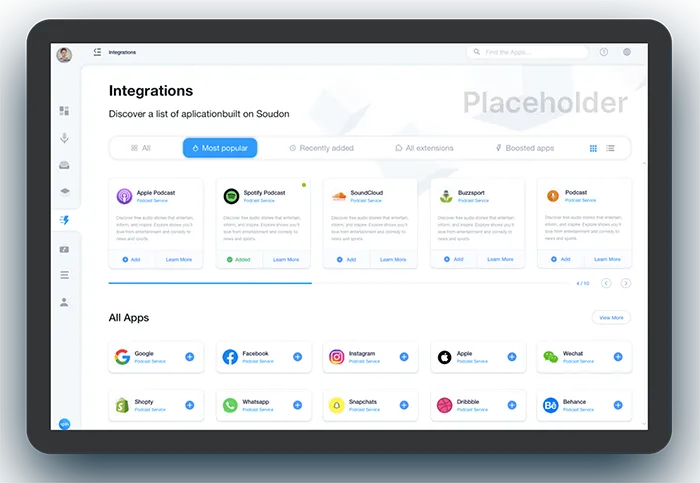
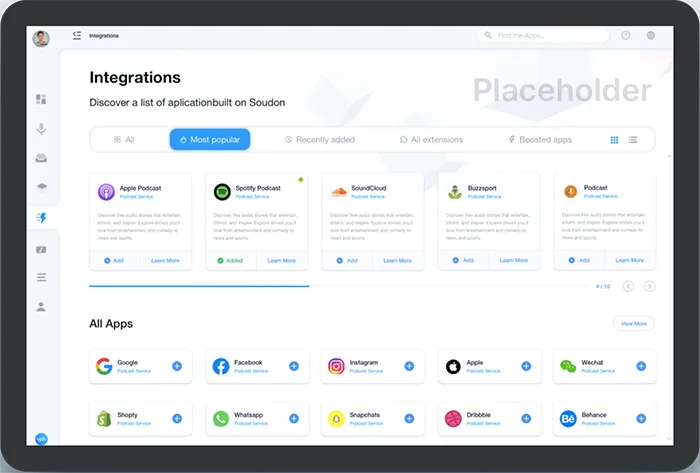
fix some layout issues: crop original ipag.png to rid it from surrounding space and add margin-left to the list.

diff --git a/index.html b/index.html
@@ -156,6 +156,200 @@
         </div>
       </div>
     </section>
+    <section class="block container">
+      <header class="block__header">
+        <h2>Host on the Cloud to Keep Growing</h2>
+        <p>
+          Lorem ipsum dolor sit amet consectetur adipisicing elit. Quos pariatur
+          temporibus doloribus quis ducimus labore?
+        </p>
+      </header>
+      <article class="grid grid--1x2 feature">
+        <div class="feature__content">
+          <span class="icon-container">
+            <svg class="icon icon--primary">
+              <use xlink:href="images/sprite.svg#easy"></use>
+            </svg>
+          </span>
+          <h3 class="feature__heading">Super Easy To Use</h3>
+          <p>
+            Lorem ipsum dolor sit amet, consectetur adipisicing elit. Ipsum
+            voluptatibus iusto natus pariatur dolore vero quidem commodi, voluptatum
+            dolor eius?
+          </p>
+          <a href="#" class="link-arrow">Learn More</a>
+        </div>
+        <picture>
+          <source
+            type="image/webp"
+            srcset="images/easy.webp 1x, images/easy@2x.webp 2x"
+          />
+          <source
+            type="image/jpg"
+            srcset="images/easy.jpg 1x, images/easy@2x.jpg 2x"
+          />
+          <img class="feature__image" src="images/easy.jpg" alt="" />
+        </picture>
+      </article>
+    
+      <article class="grid grid--1x2 feature">
+        <div class="feature__content">
+          <span class="icon-container">
+            <svg class="icon icon--primary">
+              <use xlink:href="images/sprite.svg#computer"></use>
+            </svg>
+          </span>
+          <h3 class="feature__heading">Simply Fast Websites</h3>
+          <p>
+            Lorem ipsum dolor sit amet, consectetur adipisicing elit. Ipsum
+            voluptatibus iusto natus pariatur dolore vero quidem commodi, voluptatum
+            dolor eius?
+          </p>
+          <a href="#" class="link-arrow">Learn More</a>
+        </div>
+        <picture>
+          <source
+            type="image/webp"
+            srcset="images/fast.webp 1x, images/fast@2x.webp 2x"
+          />
+          <source
+            type="image/jpg"
+            srcset="images/fast.jpg 1x, images/fast@2x.jpg 2x"
+          />
+          <img class="feature__image" src="images/fast.jpg" alt="" />
+        </picture>
+      </article>
+    
+      <article class="grid grid--1x2 feature">
+        <div class="feature__content">
+          <span class="icon-container">
+            <svg class="icon icon--primary">
+              <use xlink:href="images/sprite.svg#settings"></use>
+            </svg>
+          </span>
+          <h3 class="feature__heading">WordPress Made Easy</h3>
+          <p>
+            Lorem ipsum dolor sit amet, consectetur adipisicing elit. Ipsum
+            voluptatibus iusto natus pariatur dolore vero quidem commodi, voluptatum
+            dolor eius?
+          </p>
+          <a href="#" class="link-arrow">Learn More</a>
+        </div>
+        <picture>
+          <source
+            type="image/webp"
+            srcset="images/wordpress.webp 1x, images/wordpress@2x.webp 2x"
+          />
+          <source
+            type="image/jpg"
+            srcset="images/wordpress.jpg 1x, images/wordpress@2x.jpg 2x"
+          />
+          <img class="feature__image" src="images/wordpress.jpg" alt="" />
+        </picture>
+      </article>
+    
+      <article class="grid grid--1x2 feature">
+        <div class="feature__content">
+          <span class="icon-container">
+            <svg class="icon icon--primary">
+              <use xlink:href="images/sprite.svg#clock"></use>
+            </svg>
+          </span>
+          <h3 class="feature__heading">24/7 Expert Support</h3>
+          <p>
+            Lorem ipsum dolor sit amet, consectetur adipisicing elit. Ipsum
+            voluptatibus iusto natus pariatur dolore vero quidem commodi, voluptatum
+            dolor eius?
+          </p>
+          <a href="#" class="link-arrow">Learn More</a>
+        </div>
+        <picture>
+          <source
+            type="image/webp"
+            srcset="images/support.webp 1x, images/support@2x.webp 2x"
+          />
+          <source
+            type="image/jpg"
+            srcset="images/support.jpg 1x, images/support@2x.jpg 2x"
+          />
+          <img class="feature__image" src="images/support.jpg" alt="" />
+        </picture>
+      </article>
+    </section>
+    <section class="block block--dark block--skewed-right block-showcase">
+      <header class="block__header">
+        <h2>User-friendly Control Panel</h2>
+      </header>
+      <div class="container grid grid--1x2">
+        <picture class="block-showcase__image">
+          <source
+            type="image/webp"
+            srcset="images/ipad.webp 1x, images/ipad@2x.webp 2x"
+          />
+          <source
+            type="image/png"
+            srcset="images/ipad.png 1x, images/ipad@2x.png 2x"
+          />
+          <img src="images/ipad.png" alt="" />
+        </picture>
+        <ul class="list block-showcase__list">
+          <li>
+            <div class="media">
+              <div class="media__image">
+                <svg class="icon icon--primary">
+                  <use xlink:href="images/sprite.svg#snap"></use>
+                </svg>
+              </div>
+              <div class="media__body">
+                <h3 class="media__title block__heading">
+                  Easy Start & Managed Updates
+                </h3>
+                <p class="media__content">
+                  Lorem ipsum dolor sit amet consectetur adipisicing elit. Voluptate
+                  vitae explicabo cum omnis sequi similique cupiditate culpa tempore
+                  atque voluptatibus.
+                </p>
+              </div>
+            </div>
+          </li>
+          <li>
+            <div class="media">
+              <div class="media__image">
+                <svg class="icon icon--primary">
+                  <use xlink:href="images/sprite.svg#growth"></use>
+                </svg>
+              </div>
+              <div class="media__body">
+                <h3 class="media__title block__heading">Staging, Git & WP-CLI</h3>
+                <p class="media__content">
+                  Lorem ipsum dolor sit amet consectetur adipisicing elit. Voluptate
+                  vitae explicabo cum omnis sequi similique cupiditate culpa tempore
+                  atque voluptatibus.
+                </p>
+              </div>
+            </div>
+          </li>
+          <li>
+            <div class="media">
+              <div class="media__image">
+                <svg class="icon icon--primary">
+                  <use xlink:href="images/sprite.svg#wordpress"></use>
+                </svg>
+              </div>
+              <div class="media__body">
+                <h3 class="media__title block__heading">Dynamic Caching & More</h3>
+                <p class="media__content">
+                  Lorem ipsum dolor sit amet consectetur adipisicing elit. Voluptate
+                  vitae explicabo cum omnis sequi similique cupiditate culpa tempore
+                  atque voluptatibus.
+                </p>
+              </div>
+            </div>
+          </li>
+        </ul>
+      </div>
+    </section>
+    
 
     <script src="js/main.js"></script>
   </body>

diff --git a/css/styles.css b/css/styles.css
@@ -611,12 +611,12 @@ because we only need the basic structure. we can always change it when we implem
 }
 .block--skewed-right {
   padding-bottom: calc(var(--padding-vertical) + 4rem);
-  clip-path: polygon(0% 0%, 100% 0%, 100% 100%, 0% 90%);
+  clip-path: polygon(0% 0%, 100% 0%, 100% 100%, 0% 97%);
 }
 
 .block--skewed-left {
   padding-bottom: calc(var(--padding-vertical) + 4rem);
-  clip-path: polygon(0% 0%, 100% 0%, 100% 90%, 0% 100%);
+  clip-path: polygon(0% 0%, 100% 0%, 100% 97%, 0% 100%);
 }
 
 /* this class can be reuse anywhere in webpage. 
@@ -629,6 +629,17 @@ because we want the black background to stretch but not the content
 .container {
   max-width: 1140px;
   margin: 0 auto;
+}
+@media screen and (min-width: 768px) {
+  .block--skewed-right {
+    padding-bottom: calc(var(--padding-vertical) + 4rem);
+    clip-path: polygon(0% 0%, 100% 0%, 100% 100%, 0% 90%);
+  }
+
+  .block--skewed-left {
+    padding-bottom: calc(var(--padding-vertical) + 4rem);
+    clip-path: polygon(0% 0%, 100% 0%, 100% 90%, 0% 100%);
+  }
 }
 
 /* Navigation Bar */
@@ -776,6 +787,9 @@ because we want the black background to stretch but not the content
 }
 
 /* Showcase Block  */
+.block-showcase .container {
+  margin: 0 1.5rem;
+}
 
 .block-showcase__image > img {
   /* to make img responsive in small screen */
@@ -793,7 +807,7 @@ because we want the black background to stretch but not the content
     grid-template-columns: 50% 50%;
   }
   .block-showcase__image {
-    /* we want the content of each grid box to align at on the right end so that we can't see
+    /* we want the imange to align at on the right end so that we can't see
     the left part of the img on screen that aren't wide enough */
     justify-self: end;
   }
@@ -802,6 +816,9 @@ because we want the black background to stretch but not the content
     width: auto;
     /* we want to keep the width to be 700px max, not  larger */
     max-width: 700px;
+  }
+  .block-showcase__list {
+    margin-left: 4rem;
   }
 }
 
